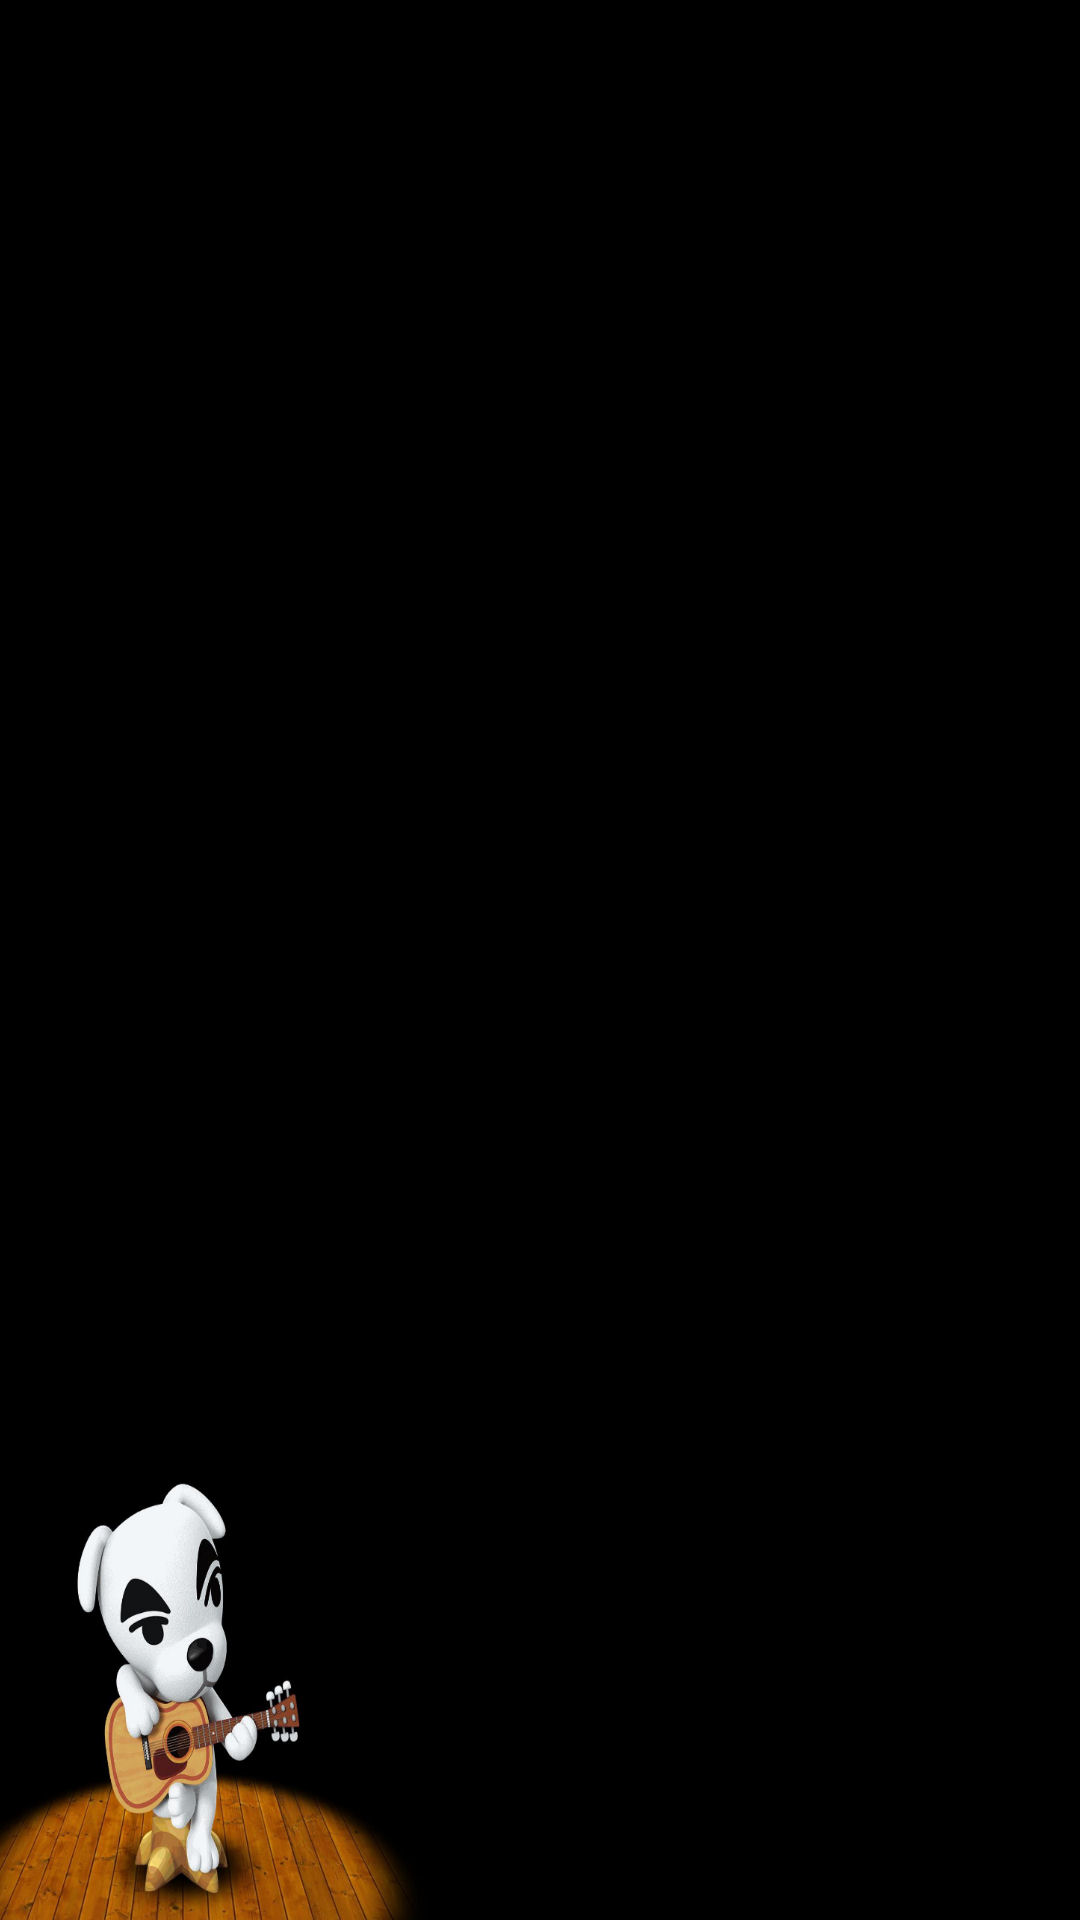
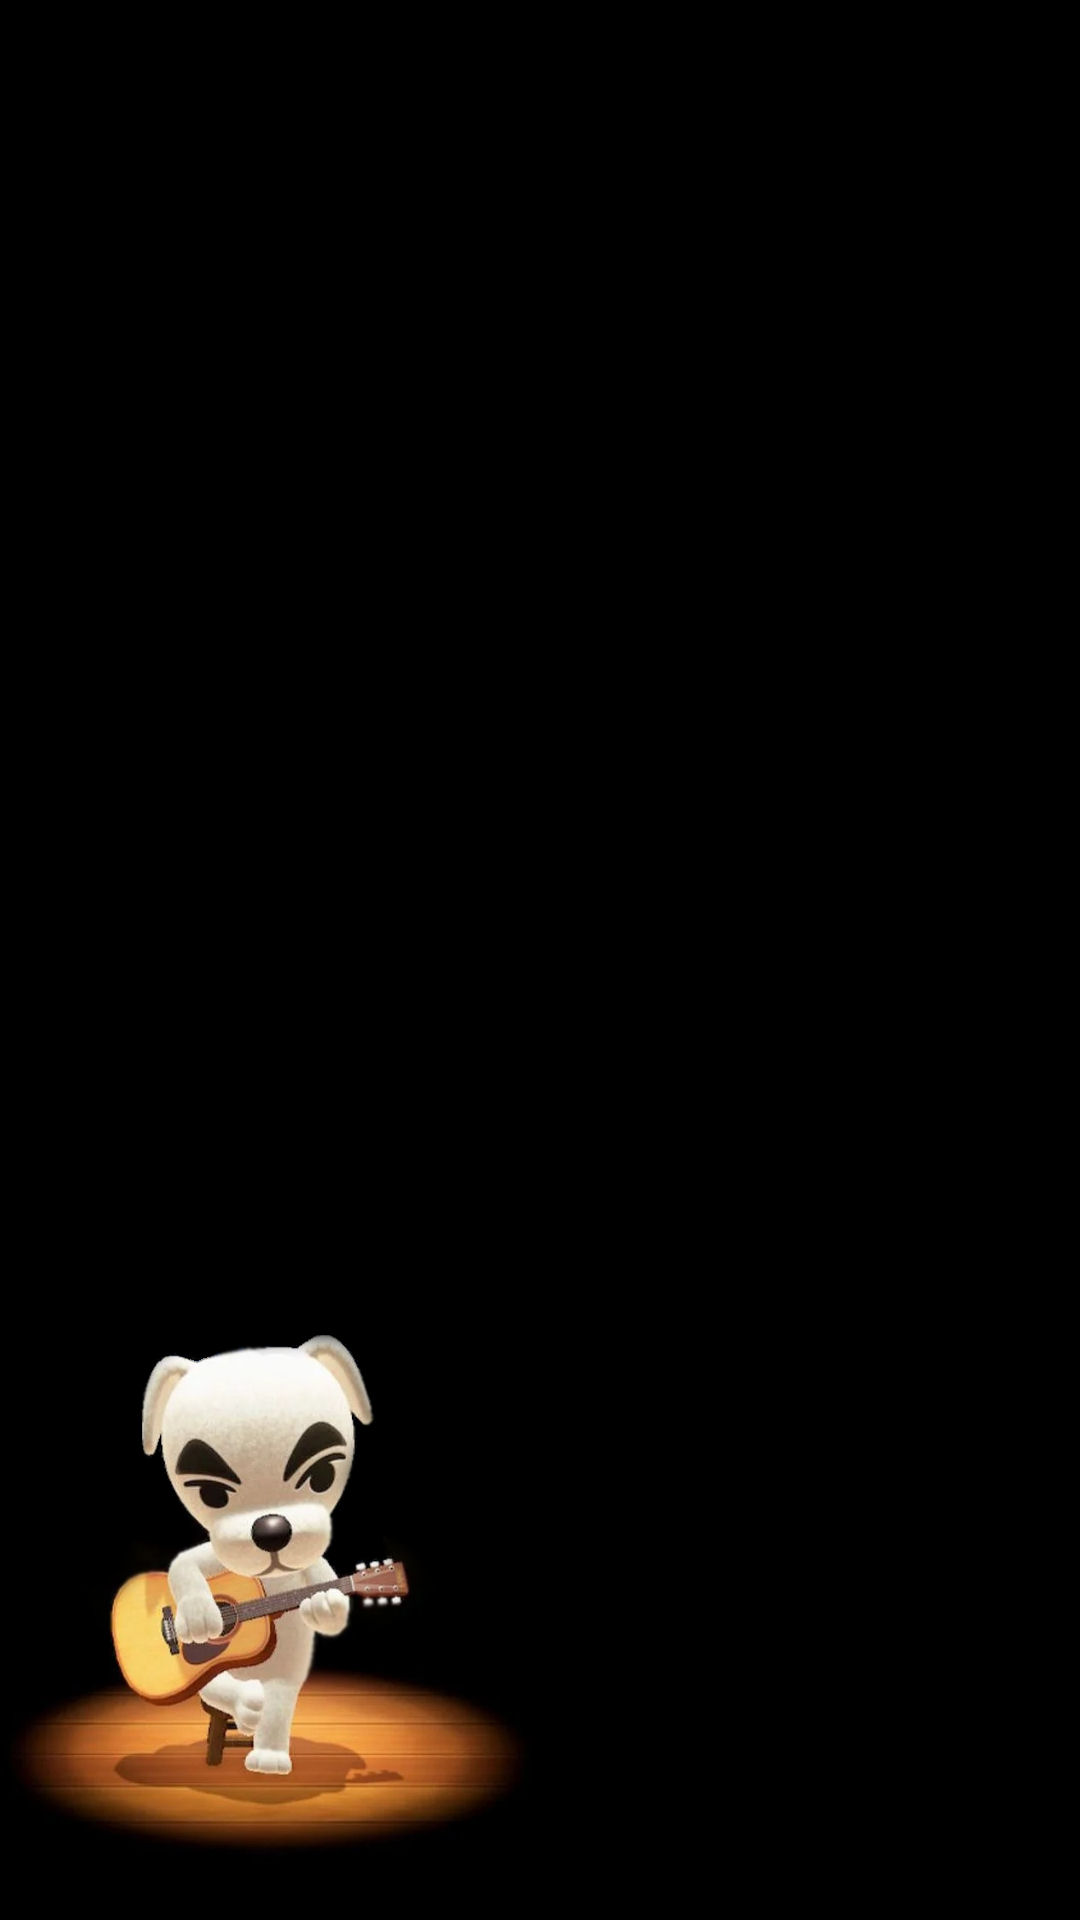
Changed background image on bodyBlack, made arrows and button responsive for mobile, added if statements to make next/previous functions work on last and first songs
Changed background image on bodyBlack, made arrows and button responsive for mobile, added if statements to make next/previous functions work on last and first songs

Changed region(s): [[0.0, 0.6875, 0.4889, 1.0]]

diff --git a/src/App.css b/src/App.css
@@ -13,6 +13,8 @@ body {  background-image: url(media/kkclear.png);
 
 button, button:hover {background-color: #da8f4d;
 border: 3px solid #682424;
+position: absolute;
+left: 488px;
 color: #440f0f;
 padding: 15px 25px;
 border-radius: 4px;
@@ -21,6 +23,7 @@ border-radius: 4px;
  button:active {margin-top: 2px;
   border: 3px solid #682424;}
 
+  footer {margin-top: 200px;}
 .Header header {background-image: url(media/kk\ header.png);
   background-repeat: no-repeat;
   background-position-y: -170px;
@@ -123,7 +126,7 @@ color: #2f6b0a;
 }
 
 .bodySepia {background-image: url(media/kkclear.png);
-  background-image: url(media/kkclear.png), linear-gradient(0deg, rgba(255,215,150,1) 0%, rgba(245,226,191,1) 50%, rgba(255,255,255,1) 100%);;
+  background-image: url(media/kkclear.png), linear-gradient(0deg, rgb(201, 141, 85) 0%, rgb(248, 221, 185) 100%);;
   background-repeat: no-repeat;
   color: #973636;
   background-attachment: fixed;
@@ -254,16 +257,16 @@ transform: rotate(35deg);}
 
  .right {float: right;}
 
-.rightArrow {position: fixed;
-  right: 450px;
-  bottom: 305px;}
+.rightArrow {position: absolute;
+  right: 222px;
+  bottom: 218px;}
 
       .rightArrow .topPoint {background-color: #381D0D;
         height: 100%;
         border: 4px solid  #da8f4d;
   min-height: 20px;
       max-height: 40px;
-      min-width: 60px;
+      min-width: 61px;
       transform: rotate(40deg);
        }
       
@@ -274,7 +277,7 @@ left: 2px;
 z-index: -1;
         border: 4px solid  #da8f4d;
       min-height: 20px;
-      min-width: 60px;
+      min-width: 61px;
       transform: rotate(130deg);
        }
        .rightArrow .flat {background-color: #381D0D;
@@ -283,7 +286,7 @@ z-index: -1;
         margin-top: -27px;
         margin-left: 30px;
         z-index: 2;
-      min-height: 20px;
+      min-height: 22px;
       max-width: 12px;
       transform: rotate(40deg);}
 
@@ -295,6 +298,7 @@ z-index: -1;
 max-width: 300px;
 position: relative;
 bottom: 10px;
+border: 2px solid #5F6163;
 }
 
 .Songinfo .player {margin-bottom: 5px;}
@@ -304,10 +308,24 @@ top: 270px}
 
 .smallSearchSong .Songinfo img {max-height: 200px;
   max-width: 200px;
+  border: 2px solid #5F6163;
   position: relative;
   bottom: 10px;
   }
 .smallSearchSong .container {position: relative;
   top: 130px}
+  .smallSearchSong .leftArrow {position: absolute;
+    left: 13px;
+    bottom: 158px;}
 
+    .smallSearchSong 
+    .rightArrow {position: absolute;
+      right: 15px;
+      bottom: 158px;}
+    
 .smallSearchSong .songName {font-size: 30px;}
+
+.smallSearchSong audio {max-width: 207px;}
+
+.smallSearchSong button {position: absolute;
+  left: 105px;}

diff --git a/src/SearchSong.js b/src/SearchSong.js
@@ -317,13 +317,15 @@ function playSong(response){
     setLoaded("loaded");
 }
 function previousSong(){ 
-    song = song.previous;
+    if (song.thisone === 1){song = 95;}
+    else {song = song.previous;}
     let newURL = `https://acnhapi.com/v1a/songs/${song}`;
     axios.get(newURL).then(playSong);
  }
 
 function nextSong(){
- song = (song.thisone+1);
+    if (song.thisone === 95){song = 1;}
+    else {song = (song.thisone+1);}
 let newestURL = `https://acnhapi.com/v1a/songs/${song}`;
 axios.get(newestURL).then(playSong);
 

diff --git a/src/Songinfo.js b/src/Songinfo.js
@@ -3,8 +3,9 @@ import React, {useState, useEffect} from "react";
 export default function Songinfo(props){
 const [newSong, setnewSong]= useState(props.data.songURL);
 useEffect(() => {
-    setnewSong(props.data.songURL);
-  }, [props.data.songURL]);
+  setnewSong(props.data.songURL);
+}, [props.data.songURL]);
+
 
     return(
     <div className="Songinfo">

diff --git a/src/App.js b/src/App.js
@@ -10,6 +10,7 @@ function App() {
        <div className="smallSearchSong"><SearchSong /></div>  </MediaQuery>
         <MediaQuery minDeviceWidth={501}> <Header />  
         <SearchSong  />     </MediaQuery> 
+        <footer>Coded by <a href="https://www.amandacapasso.com">Amanda Capasso</a></footer>
       </div>
   );
 }
